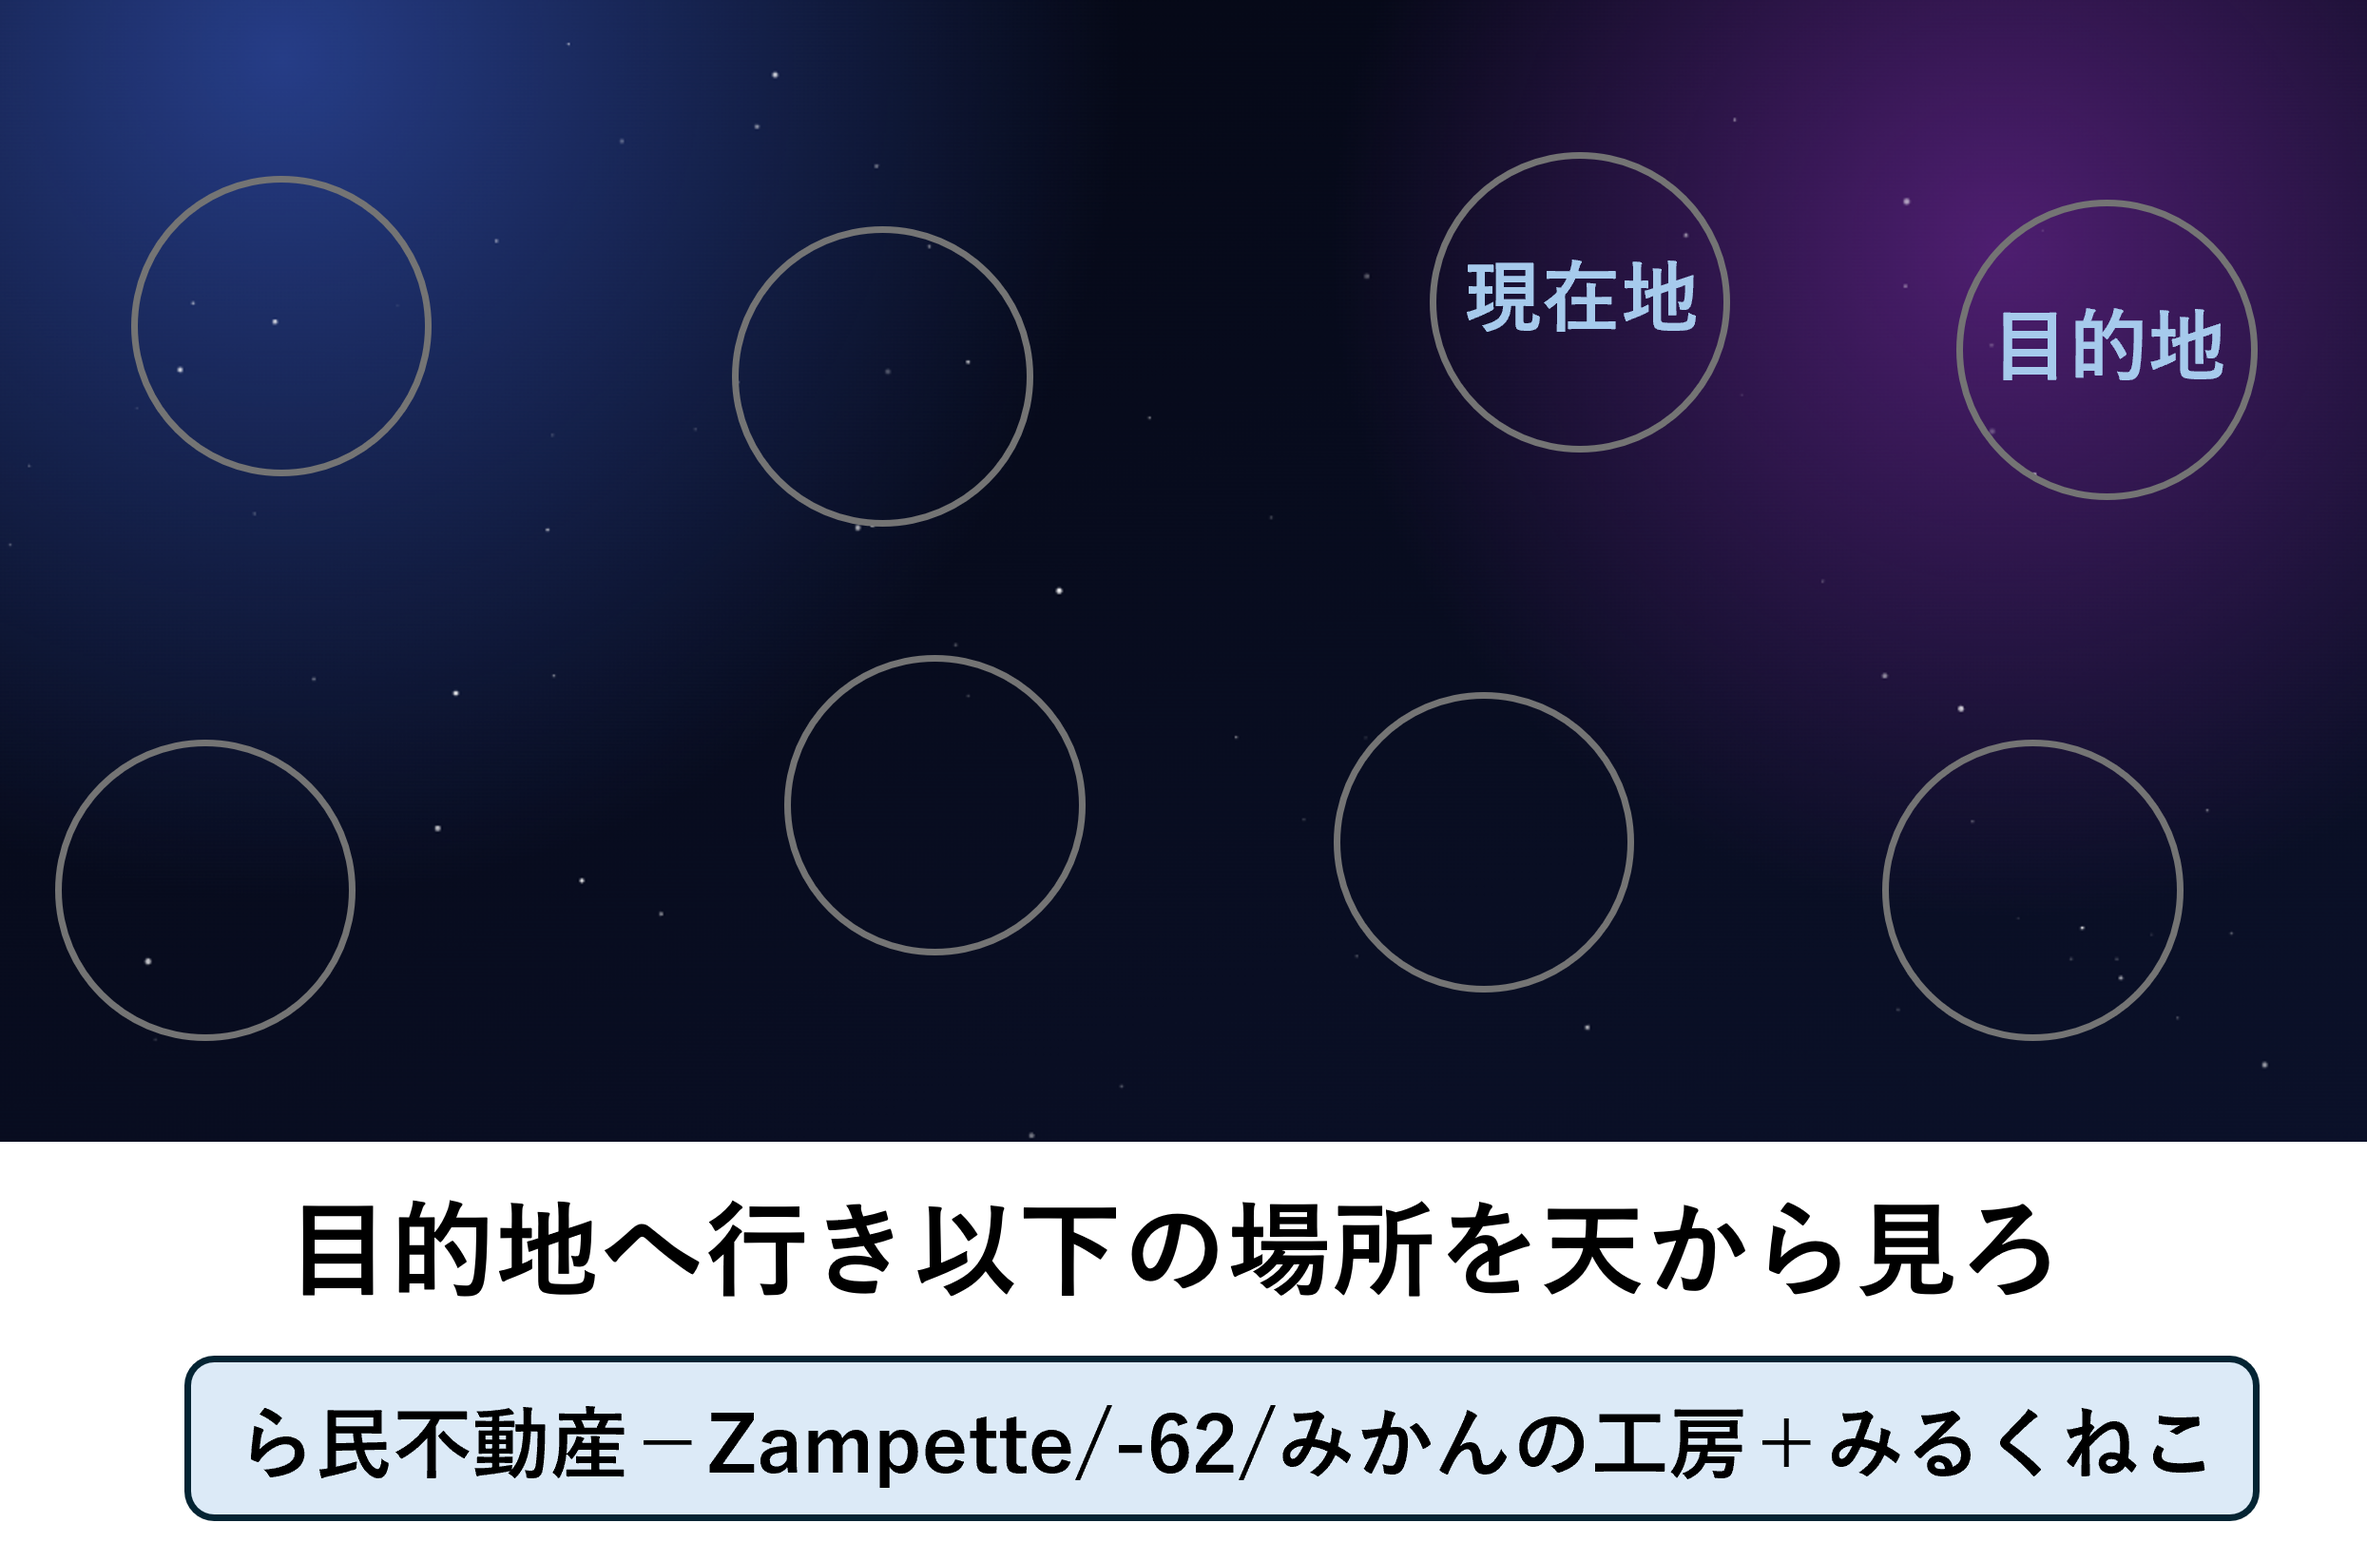
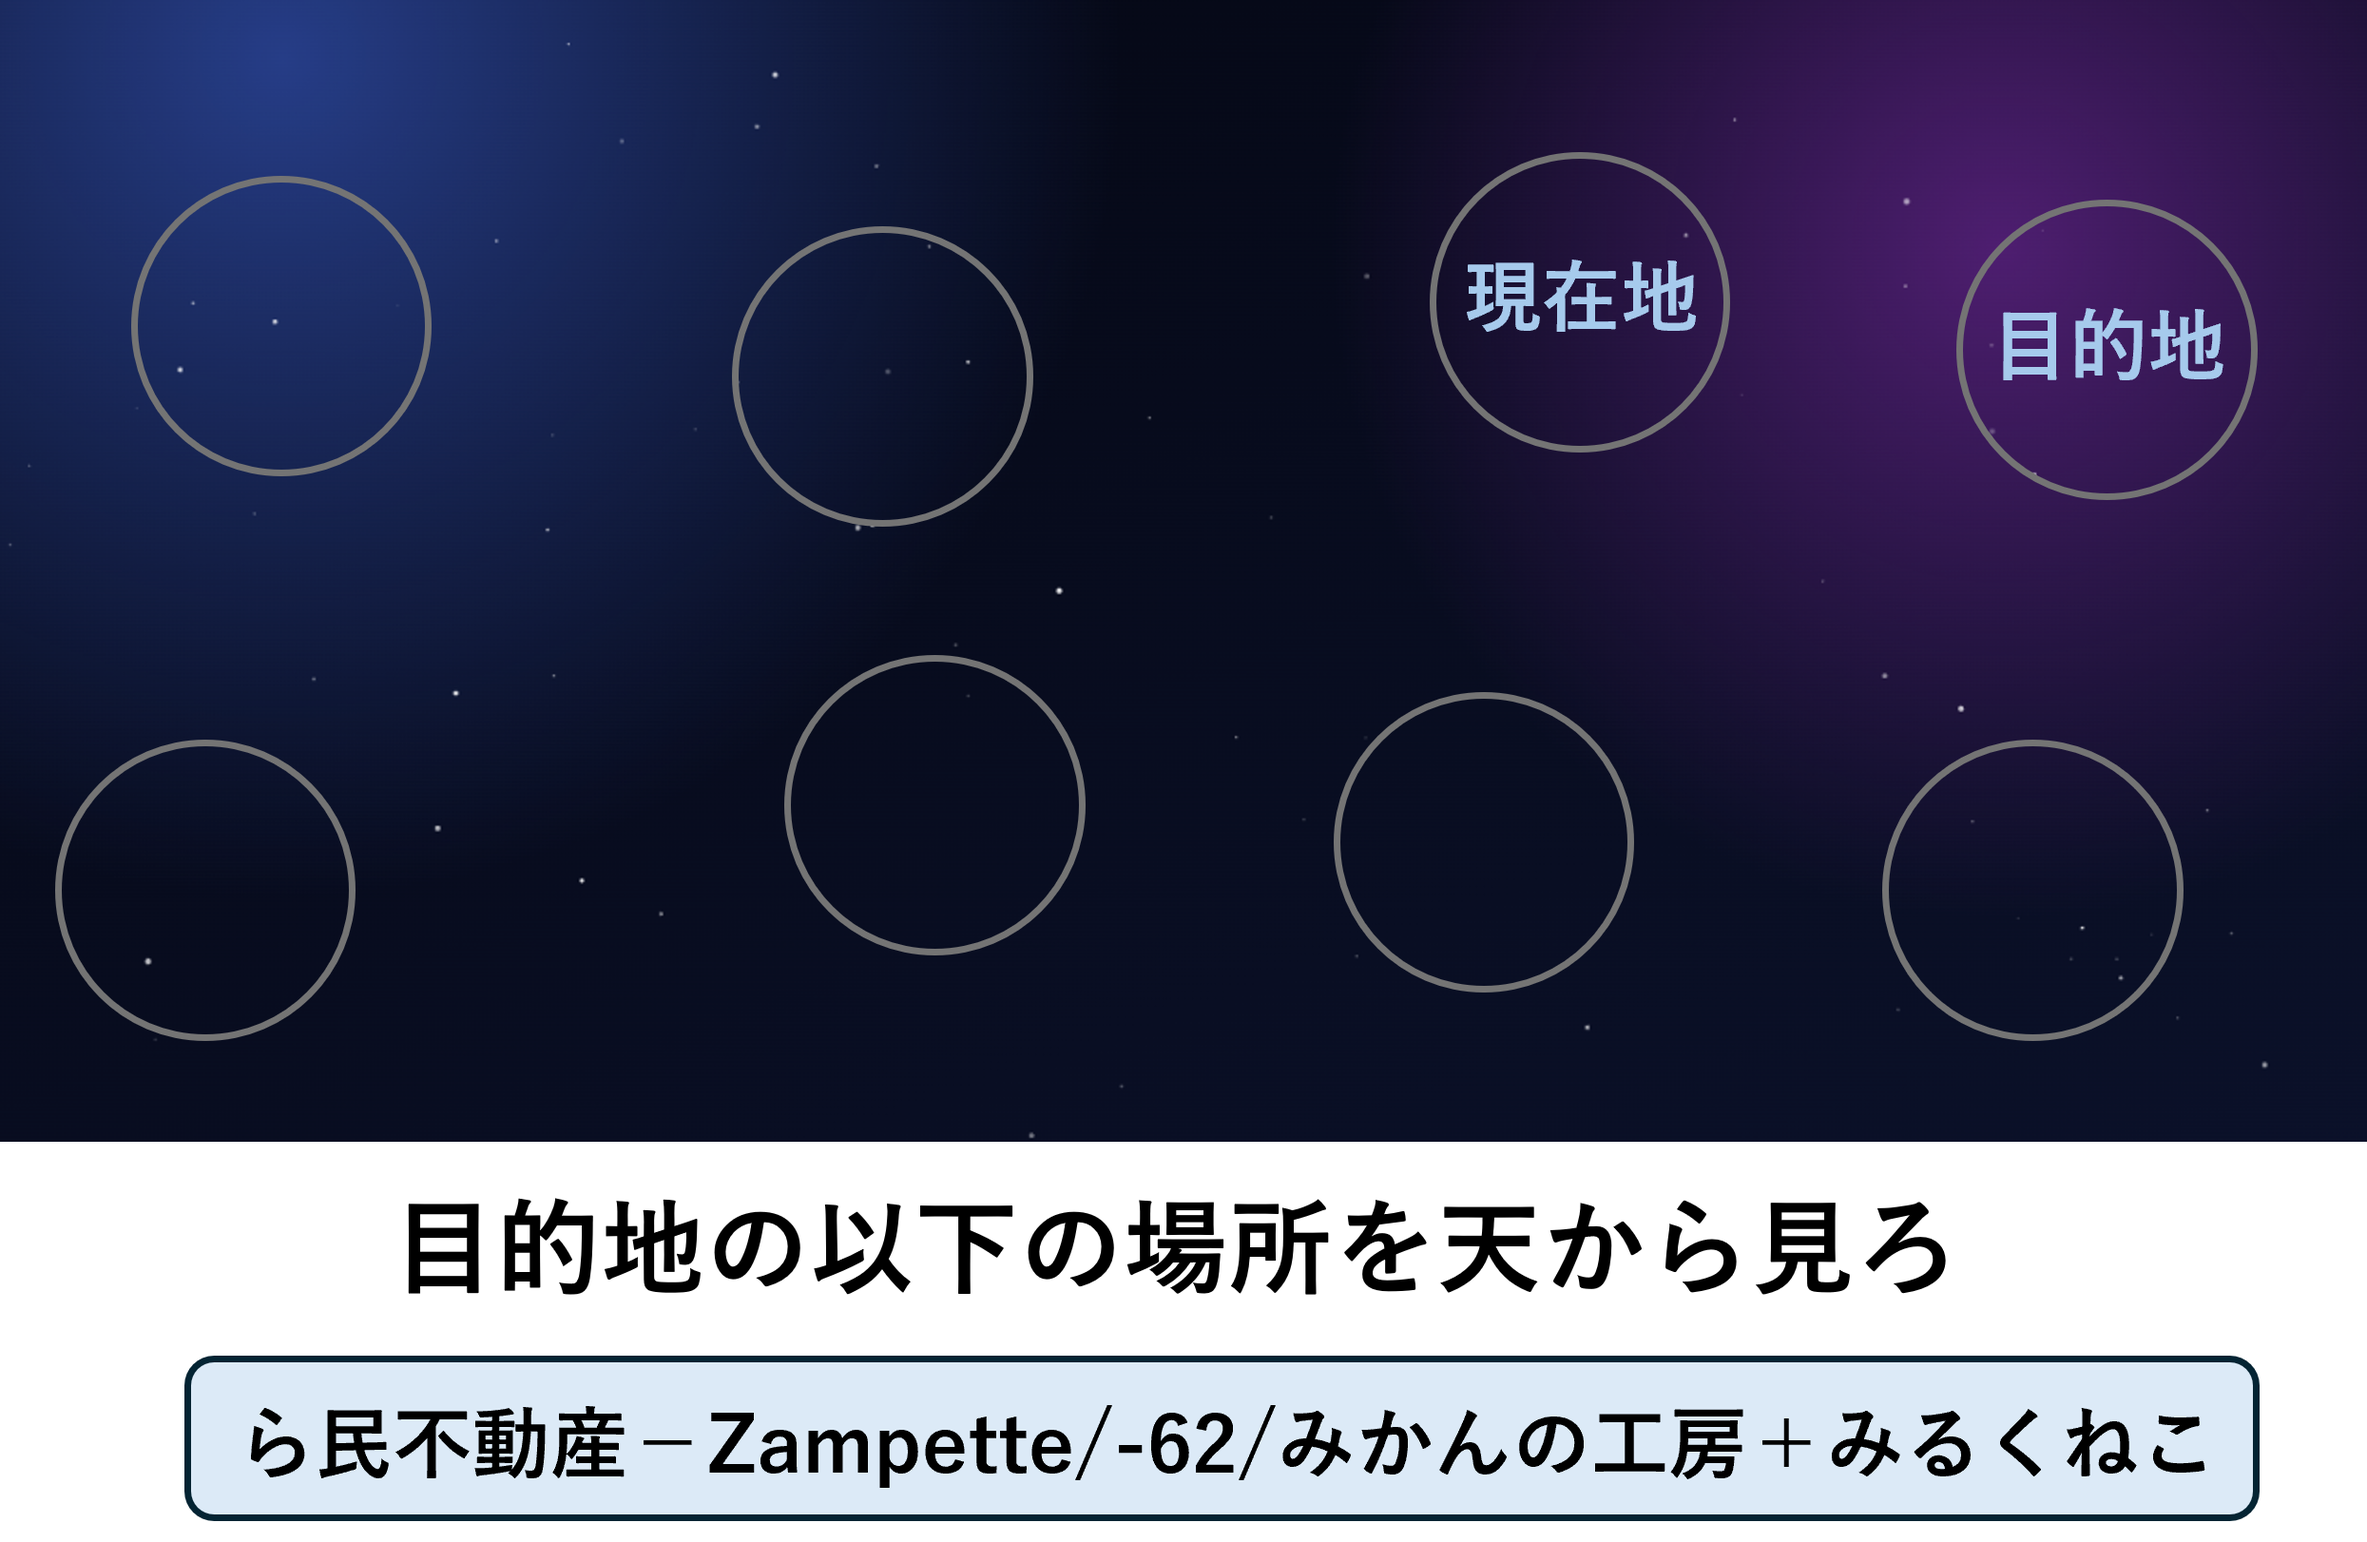
Add files via upload

Changed region(s): [[0.1237, 0.7707, 0.8659, 0.8631]]

diff --git a/page5_-1231_133_760.html b/page5_-1231_133_760.html
@@ -1,0 +1,97 @@
+<!DOCTYPE html>
+<html lang="ja">
+<head>
+    <meta charset="UTF-8">
+    <meta name="viewport" content="width=device-width, initial-scale=1.0">
+    <title>GAME CLEAR - 脱出成功！</title>
+    <style>
+        body {
+            font-family: 'Helvetica Neue', Arial, 'Hiragino Kaku Gothic ProN', 'Hiragino Sans', Meiryo, sans-serif;
+            text-align: center;
+            background-color: #1a1a1a;
+            color: #eee;
+            margin: 0;
+            padding: 40px 20px;
+            line-height: 1.8;
+            overflow-x: hidden;
+        }
+        .container {
+            max-width: 800px;
+            margin: 0 auto;
+            background: #2c2c2c;
+            padding: 50px 40px;
+            border-radius: 15px;
+            box-shadow: 0 0 30px rgba(46, 204, 113, 0.3); /* 成功を祝う緑の輝き */
+            border: 2px solid #2ecc71;
+            position: relative;
+        }
+        .clear-badge {
+            font-size: 5em;
+            margin: 0;
+            color: #2ecc71;
+            text-shadow: 0 0 10px rgba(46, 204, 113, 0.5);
+            animation: bounce 2s infinite;
+        }
+        @keyframes bounce {
+            0%, 20%, 50%, 80%, 100% {transform: translateY(0);}
+            40% {transform: translateY(-20px);}
+            60% {transform: translateY(-10px);}
+        }
+        h2 {
+            font-size: 2.2em;
+            color: #f1c40f; /* ゴールド */
+            margin-top: 10px;
+            letter-spacing: 0.2em;
+        }
+        .message {
+            font-size: 1.2em;
+            margin: 40px 0;
+            padding: 20px;
+            background: rgba(255, 255, 255, 0.05);
+            border-radius: 8px;
+        }
+        .dm-request {
+            background-color: #3498db;
+            color: white;
+            padding: 20px;
+            border-radius: 8px;
+            margin-top: 30px;
+            font-weight: bold;
+            box-shadow: 0 4px 6px rgba(0,0,0,0.3);
+        }
+        .btn-home {
+            display: inline-block;
+            margin-top: 40px;
+            padding: 12px 30px;
+            background-color: #2ecc71;
+            color: #1a1a1a;
+            text-decoration: none;
+            font-weight: bold;
+            border-radius: 50px;
+            transition: 0.3s;
+        }
+        .btn-home:hover {
+            background-color: #27ae60;
+            transform: scale(1.05);
+        }
+    </style>
+</head>
+<body>
+    <div class="container">
+        <p class="clear-badge">★</p>
+        <h2>CONGRATULATIONS!</h2>
+        <h1>クリア成功</h1>
+
+        <div class="message">
+            <p>見事、クリアに成功しました！</p>
+            <p>最後のurlに気づいたあなたの洞察力に敬意を表します。</p>
+            <p>最後まで遊んでくれて、本当にありがとうございました！</p>
+        </div>
+
+        <div class="dm-request">
+            <p>もしよろしければ、クリアした感想や解けた時の気持ちをDMで送っていただけると非常に嬉しいです！</p>
+            <p>皆さんの反応が、次なる謎解きの活力になります。</p>
+        </div>
+    </div>
+</body>
+</html>
